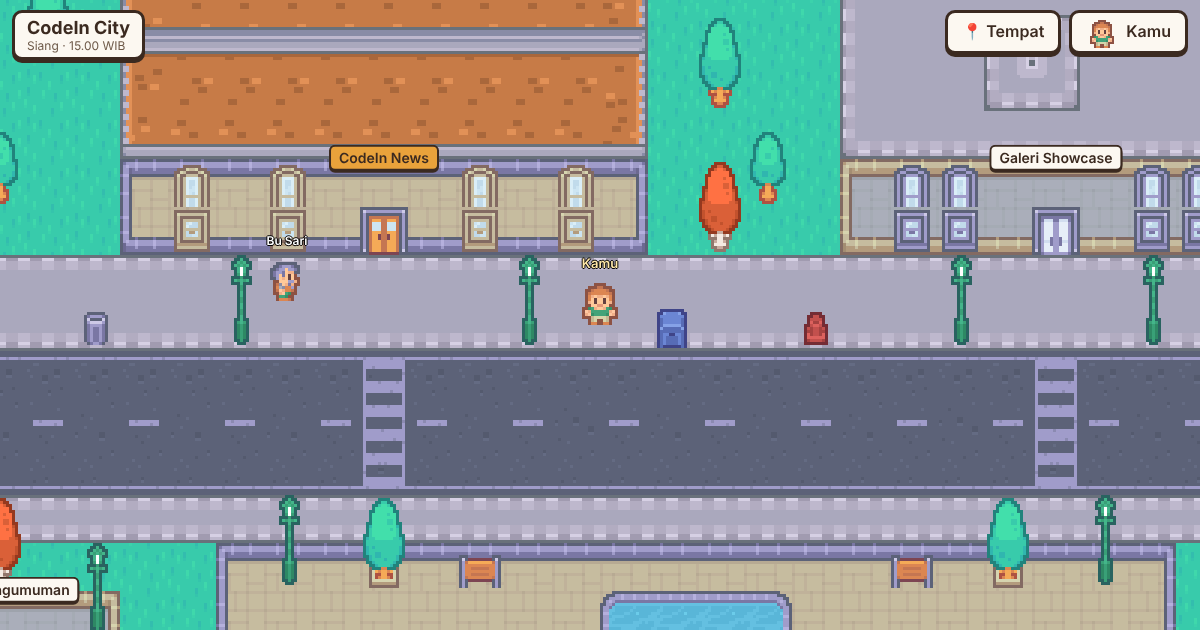
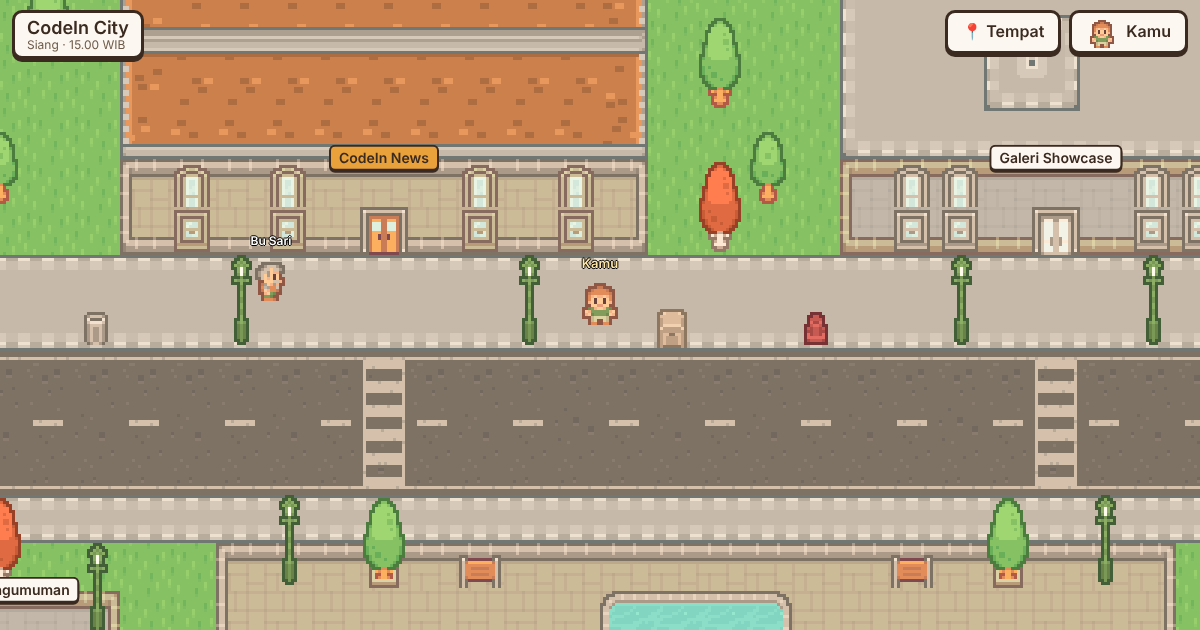
Warna hangat dan font Kantor supaya serasi dengan CodeIn News
- Tileset digeser ke nuansa hangat: rumput hijau zaitun, batu dan aspal
  cokelat-abu, air toska
- Font Fredoka + IBM Plex Sans Condensed, sama dengan Kantor
- Gambar pratinjau tautan (og.png) diperbarui

Claude-Session: https://claude.ai/code/session_01G57W4TmjsyhjUjreswEKTy

diff --git a/css/style.css b/css/style.css
@@ -1,11 +1,12 @@
 /* CodeIn City · tampilan antarmuka (bilah atas, dialog, layar judul, label di atas kanvas). */
 :root{
   --malam:#141830; --kertas:#FCF8F1; --kertas-2:#F4EADA; --tinta:#3B2A20; --redup:#6E5A49; --emas:#E9A23B; --hijau:#2A9D8F;
-  --piksel:"Pixelify Sans", "Trebuchet MS", system-ui, sans-serif;
+  --judul:"Fredoka", "IBM Plex Sans Condensed", system-ui, sans-serif;   /* sama dengan Kantor CodeIn News */
+  --ui:"IBM Plex Sans Condensed", system-ui, sans-serif;
 }
 *{box-sizing:border-box}
 [hidden]{display:none!important}
-html,body{margin:0;height:100%;overflow:hidden;background:var(--malam);color:var(--tinta);font:16px/1.45 var(--piksel);
+html,body{margin:0;height:100%;overflow:hidden;background:var(--malam);color:var(--tinta);font:16px/1.45 var(--ui);
   -webkit-user-select:none;user-select:none;-webkit-tap-highlight-color:transparent;overscroll-behavior:none}
 button,input{font:inherit;color:inherit}
 :focus-visible{outline:3px solid #fff;outline-offset:2px}
@@ -16,7 +17,7 @@ button,input{font:inherit;color:inherit}
 #label > *{position:absolute;left:0;top:0;white-space:nowrap;will-change:transform}
 
 /* label di atas kanvas */
-.papan{background:var(--kertas);border:2px solid var(--tinta);border-radius:6px;padding:1px 8px;font-weight:600;font-size:14px;box-shadow:0 2px 0 var(--tinta)}
+.papan{font-family:var(--judul);background:var(--kertas);border:2px solid var(--tinta);border-radius:6px;padding:1px 8px;font-weight:600;font-size:14px;box-shadow:0 2px 0 var(--tinta)}
 .papan.utama{background:var(--emas)}
 .papan.kunci{background:#D9D2C6;color:var(--redup);font-weight:400}
 .nama{font-size:12px;color:#fff;text-shadow:0 1px 0 #000,1px 0 0 #000,-1px 0 0 #000,0 -1px 0 #000;font-weight:600}
@@ -25,19 +26,19 @@ button,input{font:inherit;color:inherit}
   padding:6px 10px;font-size:14px;line-height:1.3;box-shadow:0 3px 0 var(--tinta);z-index:2}
 
 /* tombol */
-.tbl{display:inline-flex;align-items:center;justify-content:center;gap:8px;min-height:44px;padding:0 14px;background:var(--kertas);color:var(--tinta);
+.tbl{font-family:var(--judul);display:inline-flex;align-items:center;justify-content:center;gap:8px;min-height:44px;padding:0 14px;background:var(--kertas);color:var(--tinta);
   border:3px solid var(--tinta);border-radius:10px;box-shadow:0 3px 0 var(--tinta);cursor:pointer;font-weight:600}
 .tbl:hover{background:var(--kertas-2)}
 .tbl:active{transform:translateY(2px);box-shadow:0 1px 0 var(--tinta)}
 .tbl.utama{background:var(--emas)}
-kbd{display:inline-block;min-width:22px;padding:0 5px;border:2px solid var(--tinta);border-radius:5px;background:#fff;font:600 13px var(--piksel);text-align:center}
+kbd{display:inline-block;min-width:22px;padding:0 5px;border:2px solid var(--tinta);border-radius:5px;background:#fff;font:600 13px var(--ui);text-align:center}
 
 /* bilah atas */
 #hud{position:fixed;top:0;left:0;right:0;display:flex;align-items:flex-start;justify-content:space-between;gap:10px;
   padding:calc(10px + env(safe-area-inset-top)) 12px 0;pointer-events:none}
 #hud > *{pointer-events:auto}
 .merek{background:var(--kertas);border:3px solid var(--tinta);border-radius:10px;box-shadow:0 3px 0 var(--tinta);padding:4px 12px;display:flex;flex-direction:column;line-height:1.2}
-.merek b{font-size:18px}
+.merek b{font:600 18px var(--judul)}
 .merek span{font-size:12px;color:var(--redup)}
 .tombol-hud{display:flex;gap:8px;flex-wrap:wrap;justify-content:flex-end}
 #btn-profil{max-width:46vw}
@@ -59,8 +60,8 @@ kbd{display:inline-block;min-width:22px;padding:0 5px;border:2px solid var(--tin
 .tirai.judul{background:rgba(20,24,48,.72)}
 .kotak{width:min(440px,100%);background:var(--kertas);border:4px solid var(--tinta);border-radius:16px;box-shadow:0 6px 0 var(--tinta);padding:18px 20px 20px;
   -webkit-user-select:text;user-select:text}
-.kotak h1{margin:0;font-size:38px;line-height:1.1}
-.kotak h2{margin:0 0 8px;font-size:24px}
+.kotak h1{margin:0;font:700 38px/1.1 var(--judul)}
+.kotak h2{margin:0 0 8px;font:600 24px var(--judul)}
 .kotak p{margin:0 0 10px}
 .kotak ul{margin:0 0 12px;padding-left:20px}
 .kotak li{margin-bottom:6px}

diff --git a/index.html b/index.html
@@ -13,7 +13,7 @@
 <link rel="icon" href="assets/ikon.png">
 <link rel="preconnect" href="https://fonts.googleapis.com">
 <link rel="preconnect" href="https://fonts.gstatic.com" crossorigin>
-<link href="https://fonts.googleapis.com/css2?family=Pixelify+Sans:wght@400;600;700&display=swap" rel="stylesheet">
+<link href="https://fonts.googleapis.com/css2?family=Fredoka:wght@500;600;700&family=IBM+Plex+Sans+Condensed:wght@400;500;600&display=swap" rel="stylesheet">
 <link rel="stylesheet" href="css/style.css">
 </head>
 <body>
